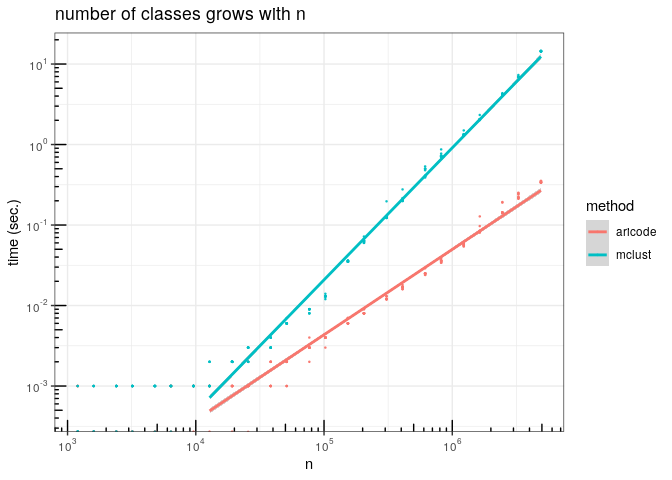
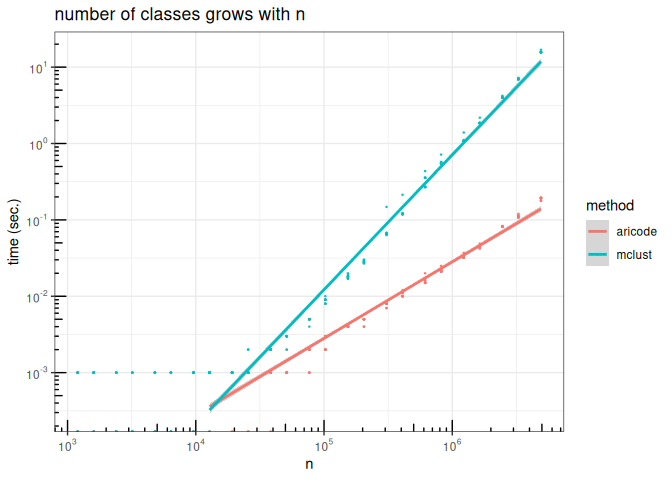
regenerating timing figures

diff --git a/README.md b/README.md
@@ -1,10 +1,12 @@
+# aricode: fast computations of clustering comparison measures
+
 
 # aricode
 
 <!-- badges: start -->
-![R-CMD-check](https://github.com/jchiquet/aricode/workflows/R-CMD-check/badge.svg?branch=master)
+[![R-CMD-check](https://github.com/jchiquet/aricode/actions/workflows/R-CMD-check.yaml/badge.svg)](https://github.com/jchiquet/aricode/actions/workflows/R-CMD-check.yaml)
 [![CRAN
-Status](https://www.r-pkg.org/badges/version/aricode)](https://CRAN.R-project.org/package=aricode)
+Status](https://www.r-pkg.org/badges/version/aricode.png)](https://CRAN.R-project.org/package=aricode)
 [![Coverage
 status](https://codecov.io/gh/jchiquet/aricode/branch/master/graph/badge.svg)](https://codecov.io/gh/jchiquet/aricode)
 [![Lifecycle:
@@ -33,18 +35,17 @@ devtools::install_github("jchiquet/aricode")
 ## Description
 
 Computation of measures for clustering comparison (ARI, AMI, NID and
-even the \(\chi^2\) distance) are usually based on the contingency
-table. Traditional implementations (e.g., function `adjustedRandIndex`
-of package **mclust**) are in \(\Omega(n + u v)\) where
+even the $\chi^2$ distance) are usually based on the contingency table.
+Traditional implementations (e.g., function `adjustedRandIndex` of
+package **mclust**) are in $\Omega(n + u v)$ where
 
-  - \(n\) is the size of the vectors the classifications of which are to
-    be compared,
-  - \(u\) and \(v\) are the respective number of classes in each
-    vectors.
+- $n$ is the size of the vectors the classifications of which are to be
+  compared,
+- $u$ and $v$ are the respective number of classes in each vectors.
 
 In **aricode** we propose an implementation, based on radix sort, that
-is in \(\Theta(n)\) in time and space.  
-Importantly, the complexity does not depends on \(u\) and \(v\). Our
+is in $\Theta(n)$ in time and space.  
+Importantly, the complexity does not depends on $u$ and $v$. Our
 implementation of the ARI for instance is one or two order of magnitude
 faster than some standard implementation in `R`.
 
@@ -52,17 +53,17 @@ faster than some standard implementation in `R`.
 
 The functions included in aricode are:
 
-  - `ARI`: computes the adjusted rand index
-  - `Chi2`: computes the Chi-square statistics
-  - `MARI/MARIraw`: computes the modified adjusted rand index (Sundqvist
-    et al, in preparation)
-  - `NVI`: computes the the normalized variation information
-  - `NID`: computes the normalized information distance
-  - `NMI`: computes the normalized mutual information
-  - `AMI`: computes the adjusted mutual information
-  - `expected_MI`: computes the expected mutual information
-  - `entropy`: computes the conditional and joint entropies
-  - `clustComp`: computes all clustering comparison measures at once
+- `ARI`: computes the adjusted rand index
+- `Chi2`: computes the Chi-square statistics
+- `MARI/MARIraw`: computes the modified adjusted rand index (Sundqvist
+  et al, 2023)
+- `NVI`: computes the the normalized variation information
+- `NID`: computes the normalized information distance
+- `NMI`: computes the normalized mutual information
+- `AMI`: computes the adjusted mutual information
+- `expected_MI`: computes the expected mutual information
+- `entropy`: computes the conditional and joint entropies
+- `clustComp`: computes all clustering comparison measures at once
 
 ## Timings
 
@@ -71,4 +72,4 @@ Index with **aricode** or with the commonly used function
 `adjustedRandIndex` of the *mclust* package: the cost of the latter can
 be prohibitive for large vectors:
 
-![](man/figures/timings_plot-1.png)<!-- -->
+![](man/figures/timings_plot-1.png)
